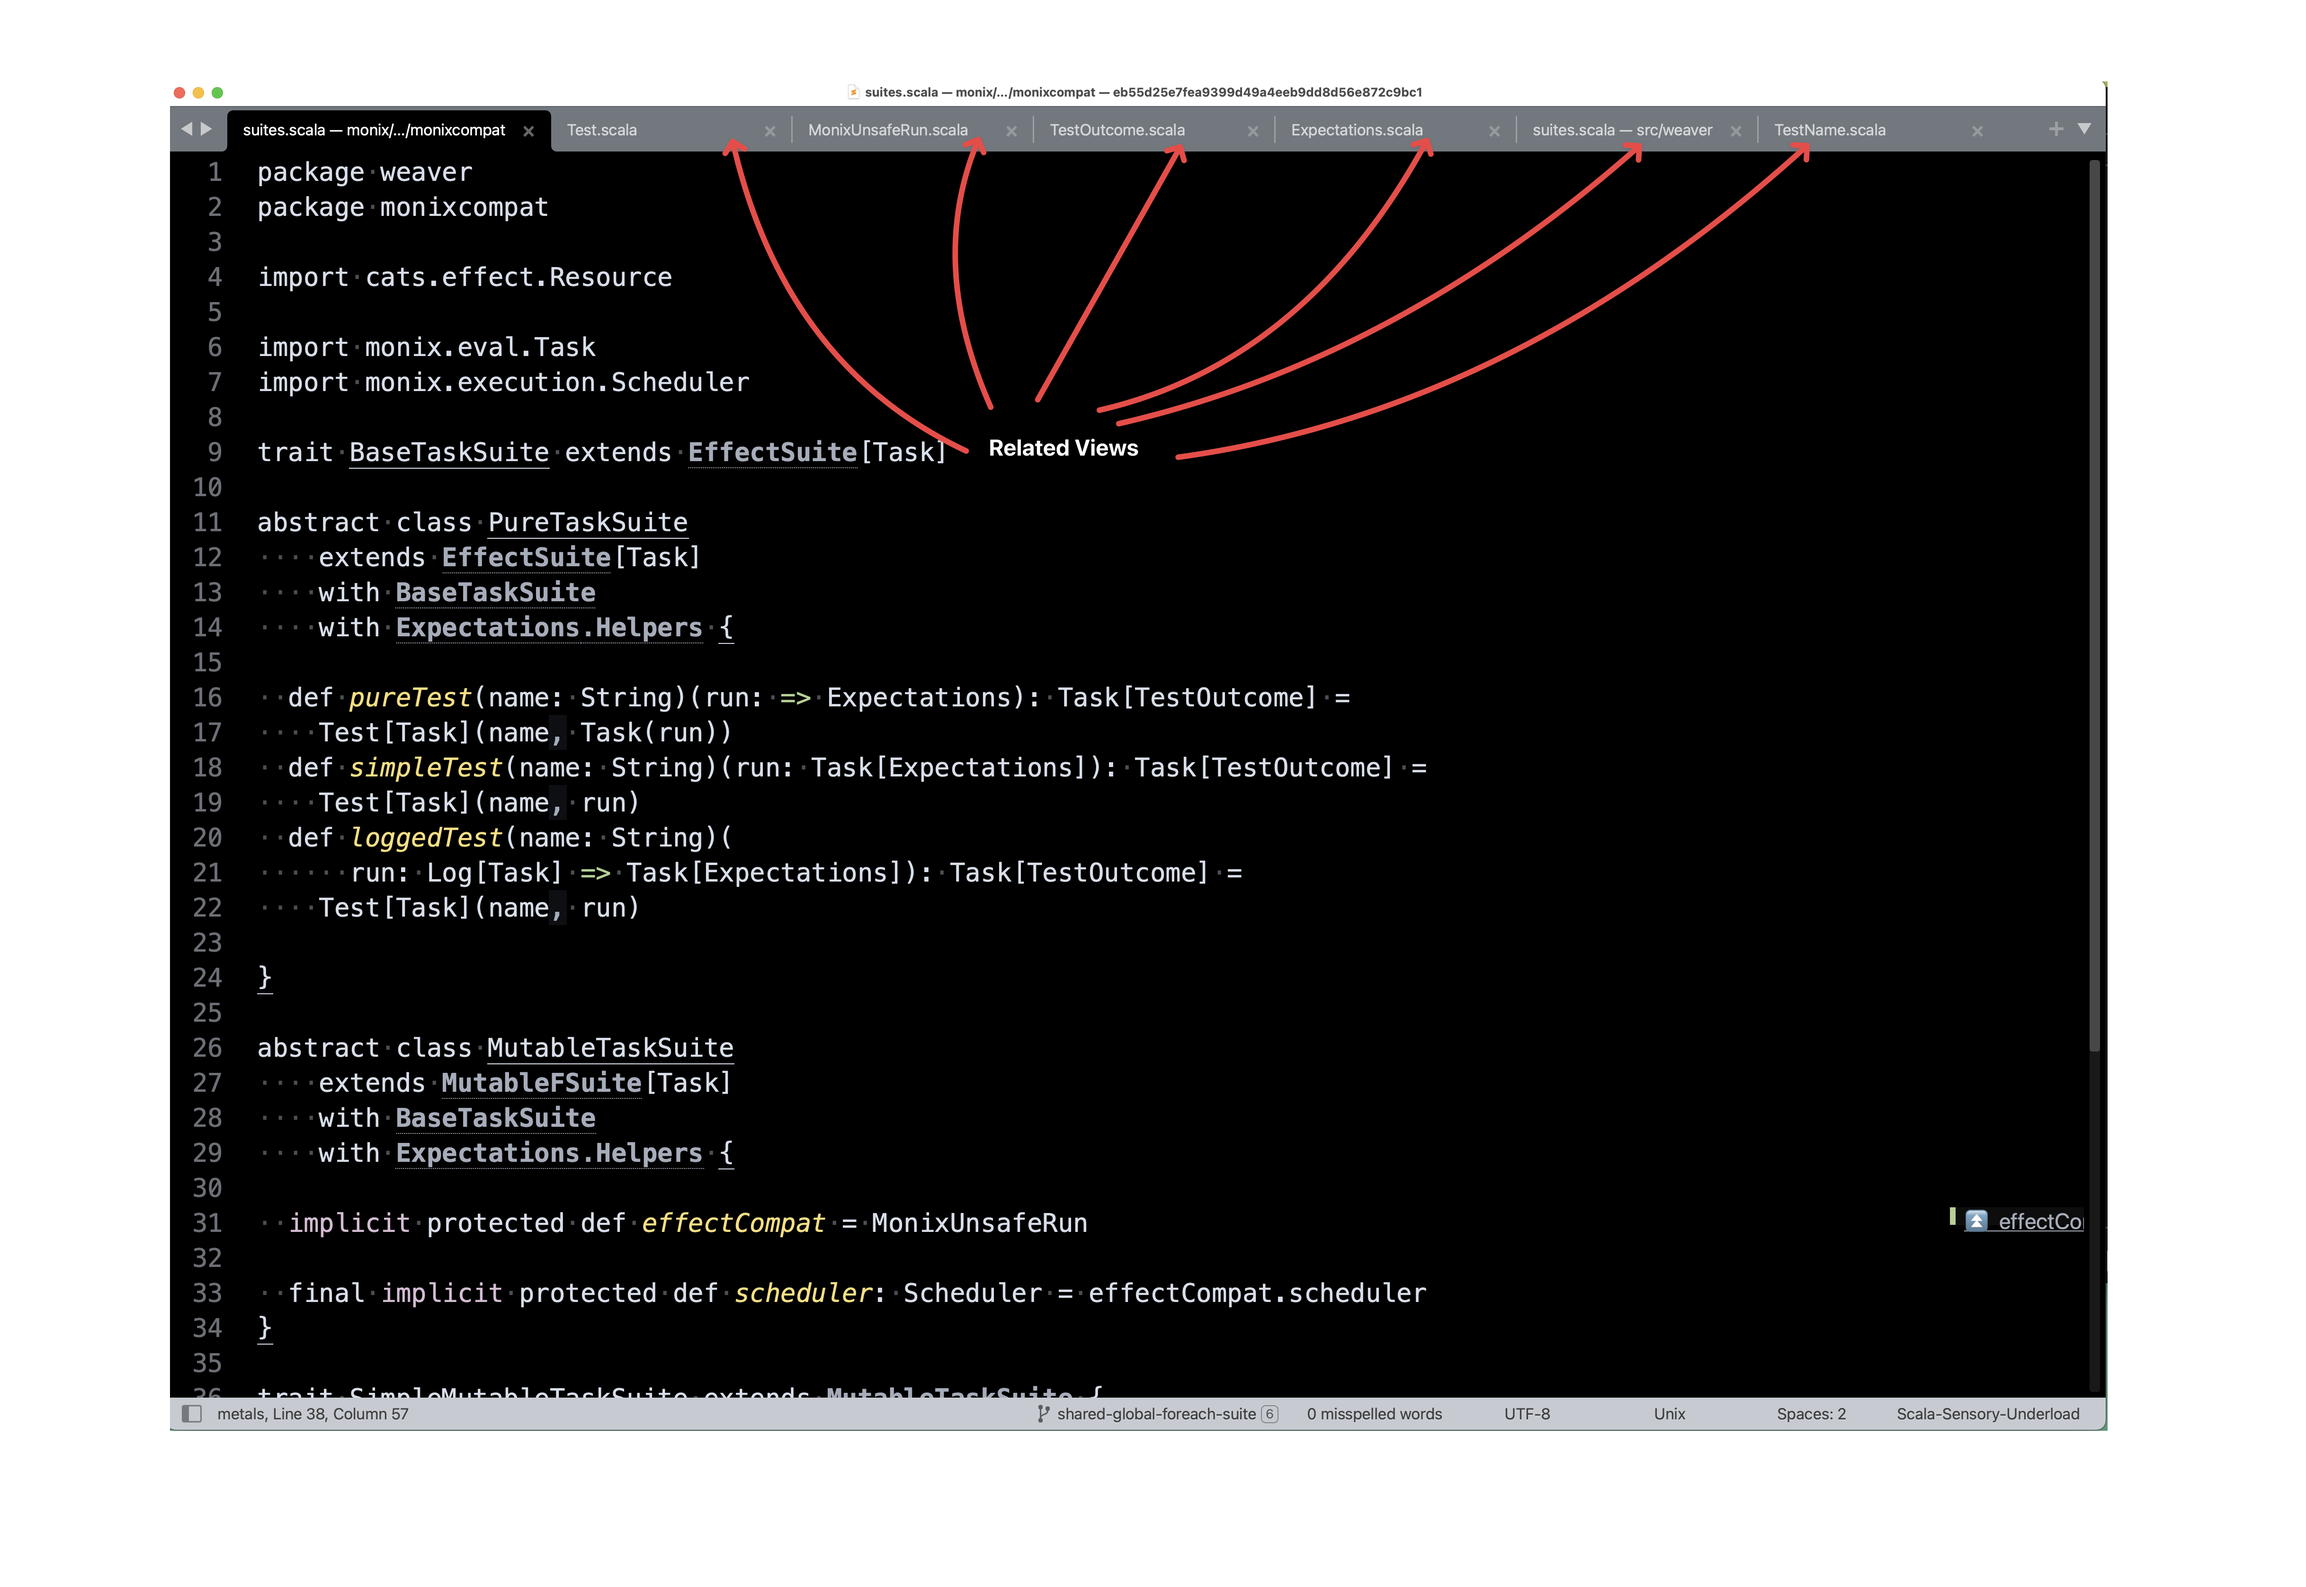
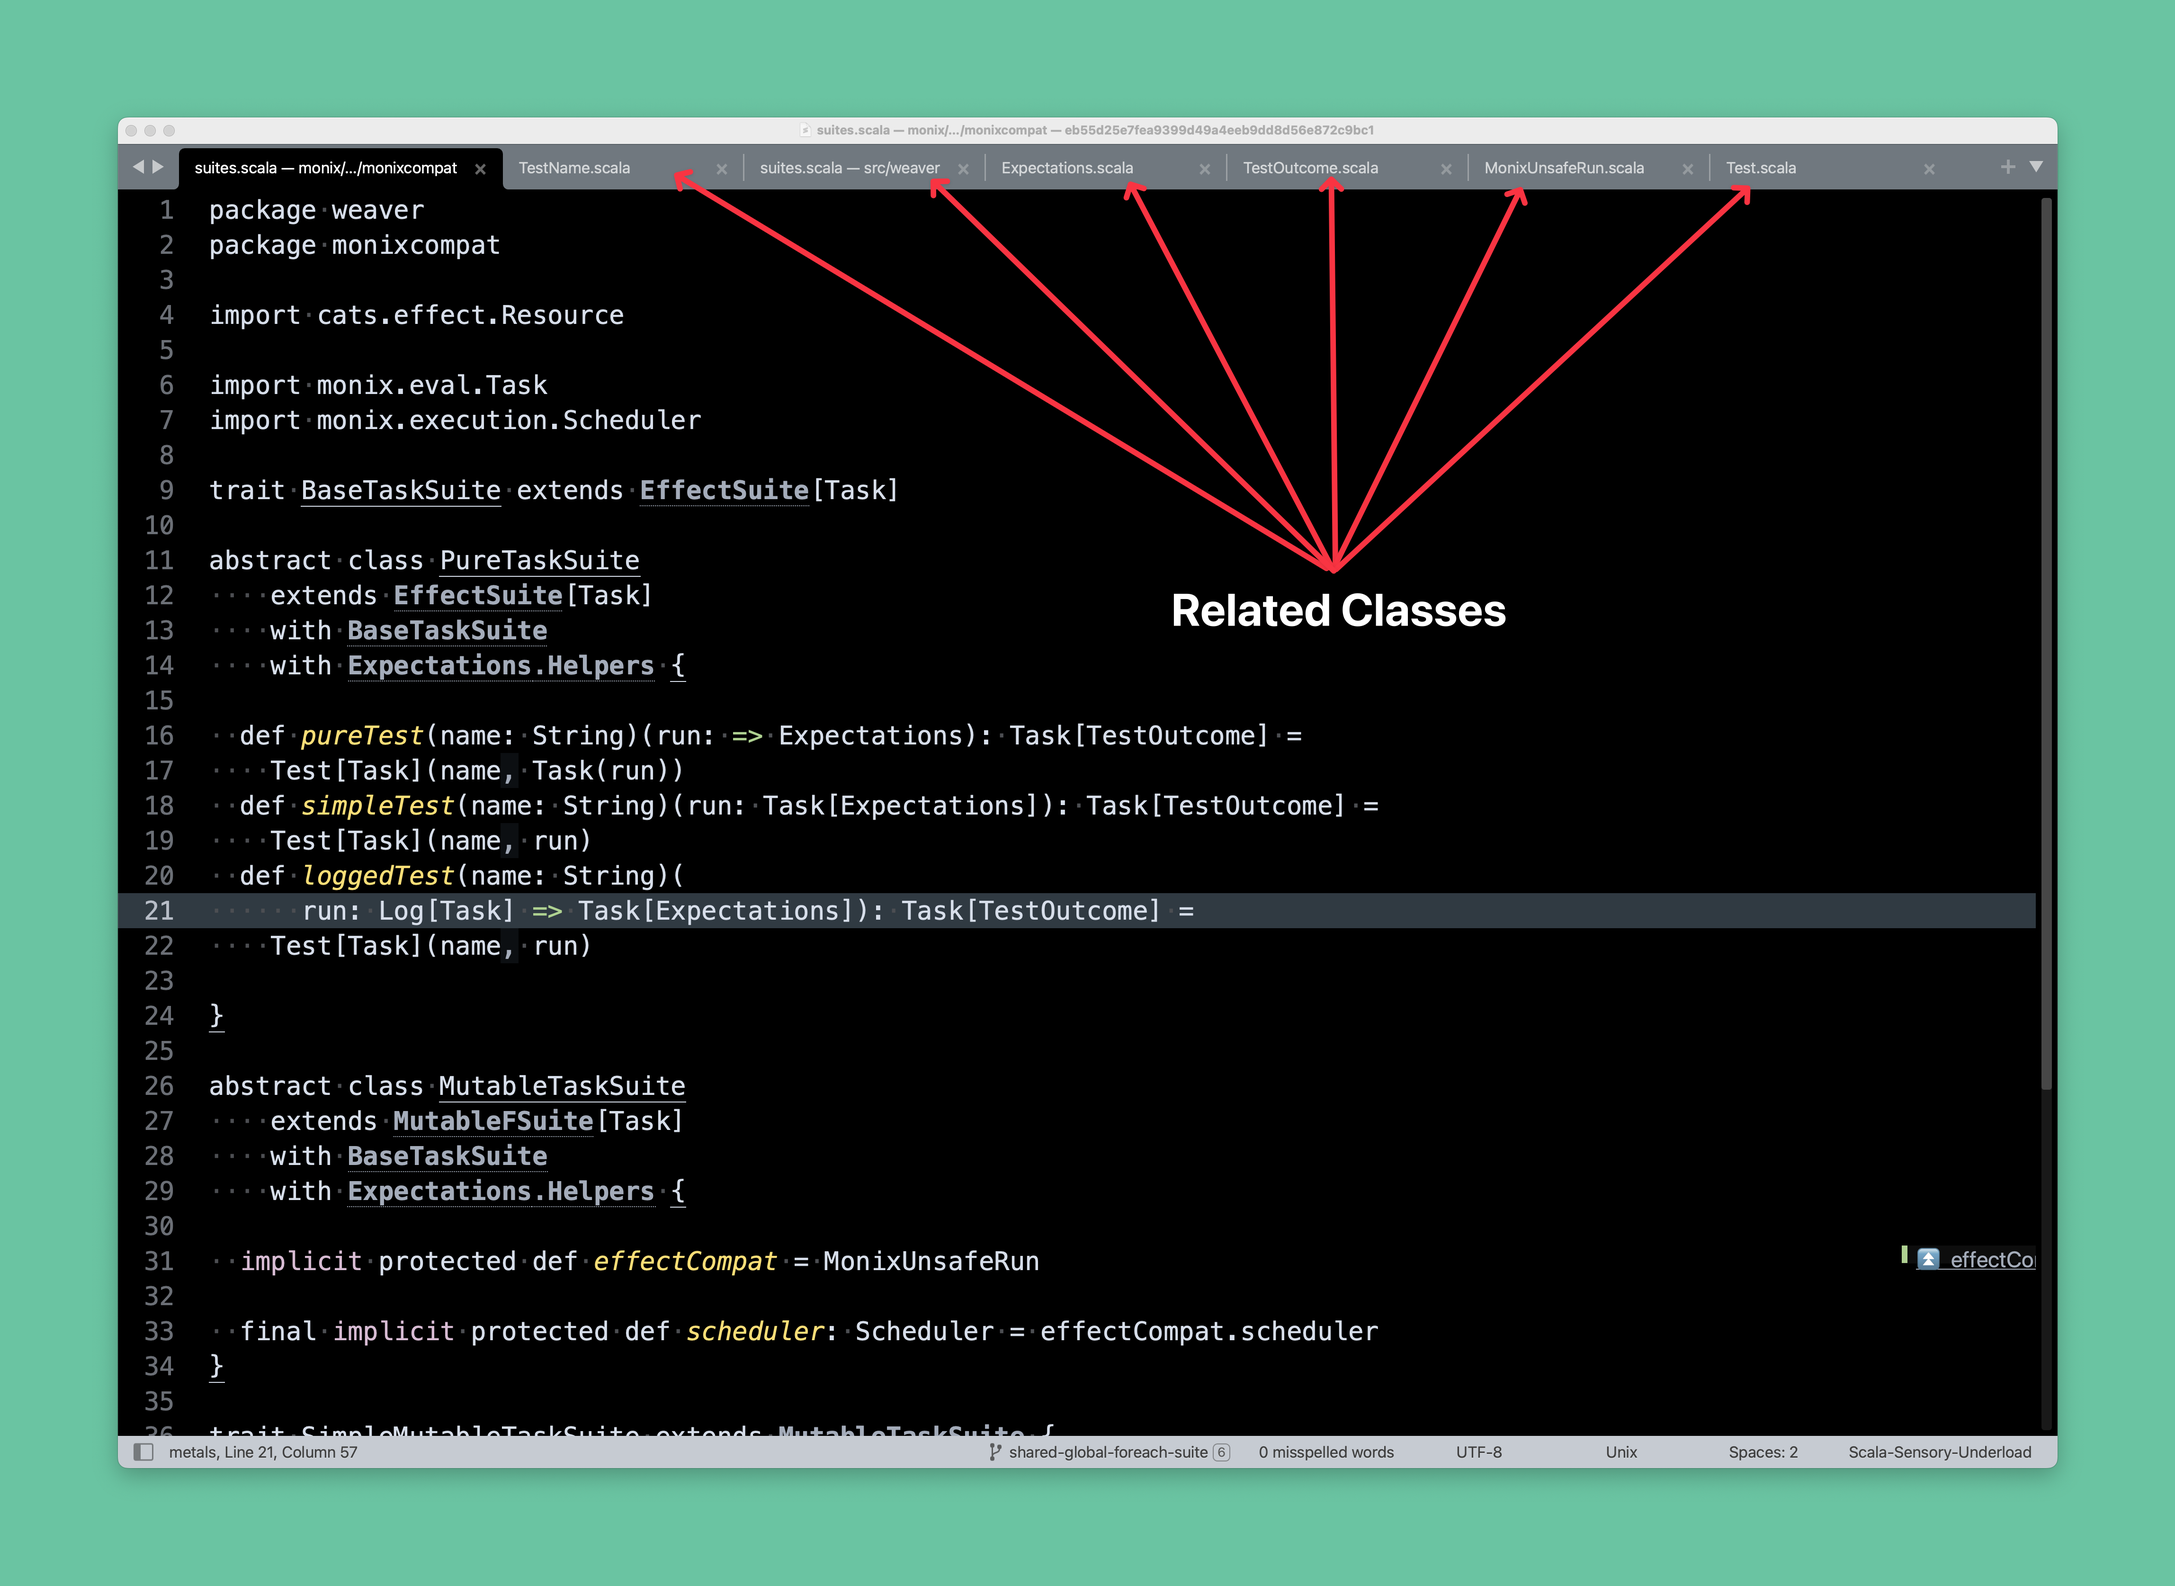
updates

diff --git a/posts/2022-06-29-how-to-move-a-tab-between-split-panes-in-sublime-text.md b/posts/2022-06-29-how-to-move-a-tab-between-split-panes-in-sublime-text.md
@@ -12,13 +12,15 @@ When looking up definitions of a complex [Scala](https://scala-lang.org/) class 
 
 In the past, I opened related classes in a new tab with the `goto_definition` command. This opens the class in a new tab in the current pane. I would repeat this for every definition I needed to look up. This very quickly leads to a lot of open tabs as shown in the image above.
 
-It becomes very hard to keep track of the original class you were working with because now there are so many tabs open. This can get overwhelming in more complex projects sometimes leading to tens of related classes open in separate tabs.
+It becomes very hard to keep track of the original class you were working on because there are so many tabs open. This can get overwhelming in more complex projects, sometimes leading to tens of related classes open in separate tabs.
 
-One way I've found to  manage this "tab overload" is to move these "definition" tabs to another split pane. For example you can create a horizontal split with the `CMD` + `ALT` + `SHIFT` + `2` key combo.
+One way I've found to  manage this "tab overload" is to move these related classes to another split pane. For example you can create a vertical split pane with the `CMD` + `ALT` + `SHIFT` + `2` key combo.
 
-![Horizontal Split Pane](/images/how-to-move-between-split-panes-st/horizontal-split.png)
+![Vertical Split Pane](/images/how-to-move-between-split-panes-st/horizontal-split.png)
 
 I used to click-and-drag the required tabs between split panes.
+
+![Dragging Tabs Between Panes](/images/how-to-move-between-split-panes-st/click-drag-between-panes.gif)
 
 While this is fine it does become a little tedious when you have many open tabs that you want to move. It's much easier if you can do it through a keyboard shortcut.
 
@@ -26,6 +28,8 @@ To my surprise, Sublime Text already had this feature buried in the `View` menu.
 
 ![Sublime Text View Menu](/images/how-to-move-between-split-panes-st/st-menu.png)
 
-Now I can seamlessly move tabs to pane below with `CTRL` + `SHIFT` + `2`. So much easier :)
+Now I can seamlessly move tabs to pane below with `CTRL` + `SHIFT` + `2`. So much easier :) What would make this even better is if Sublime Text selected the tab to the `right` after a move instead of the one on the `left`. That way you could combo your way through all the open tabs (assuming they were stacked to the right) without moving your mouse .
 
 ![Move to Split Pane 2](/images/how-to-move-between-split-panes-st/move-views-between-panes.gif)
+
+More generally you can move tabs to a pane with a given number with  `CTRL` + `SHIFT` + `PANE_NUMBER`
